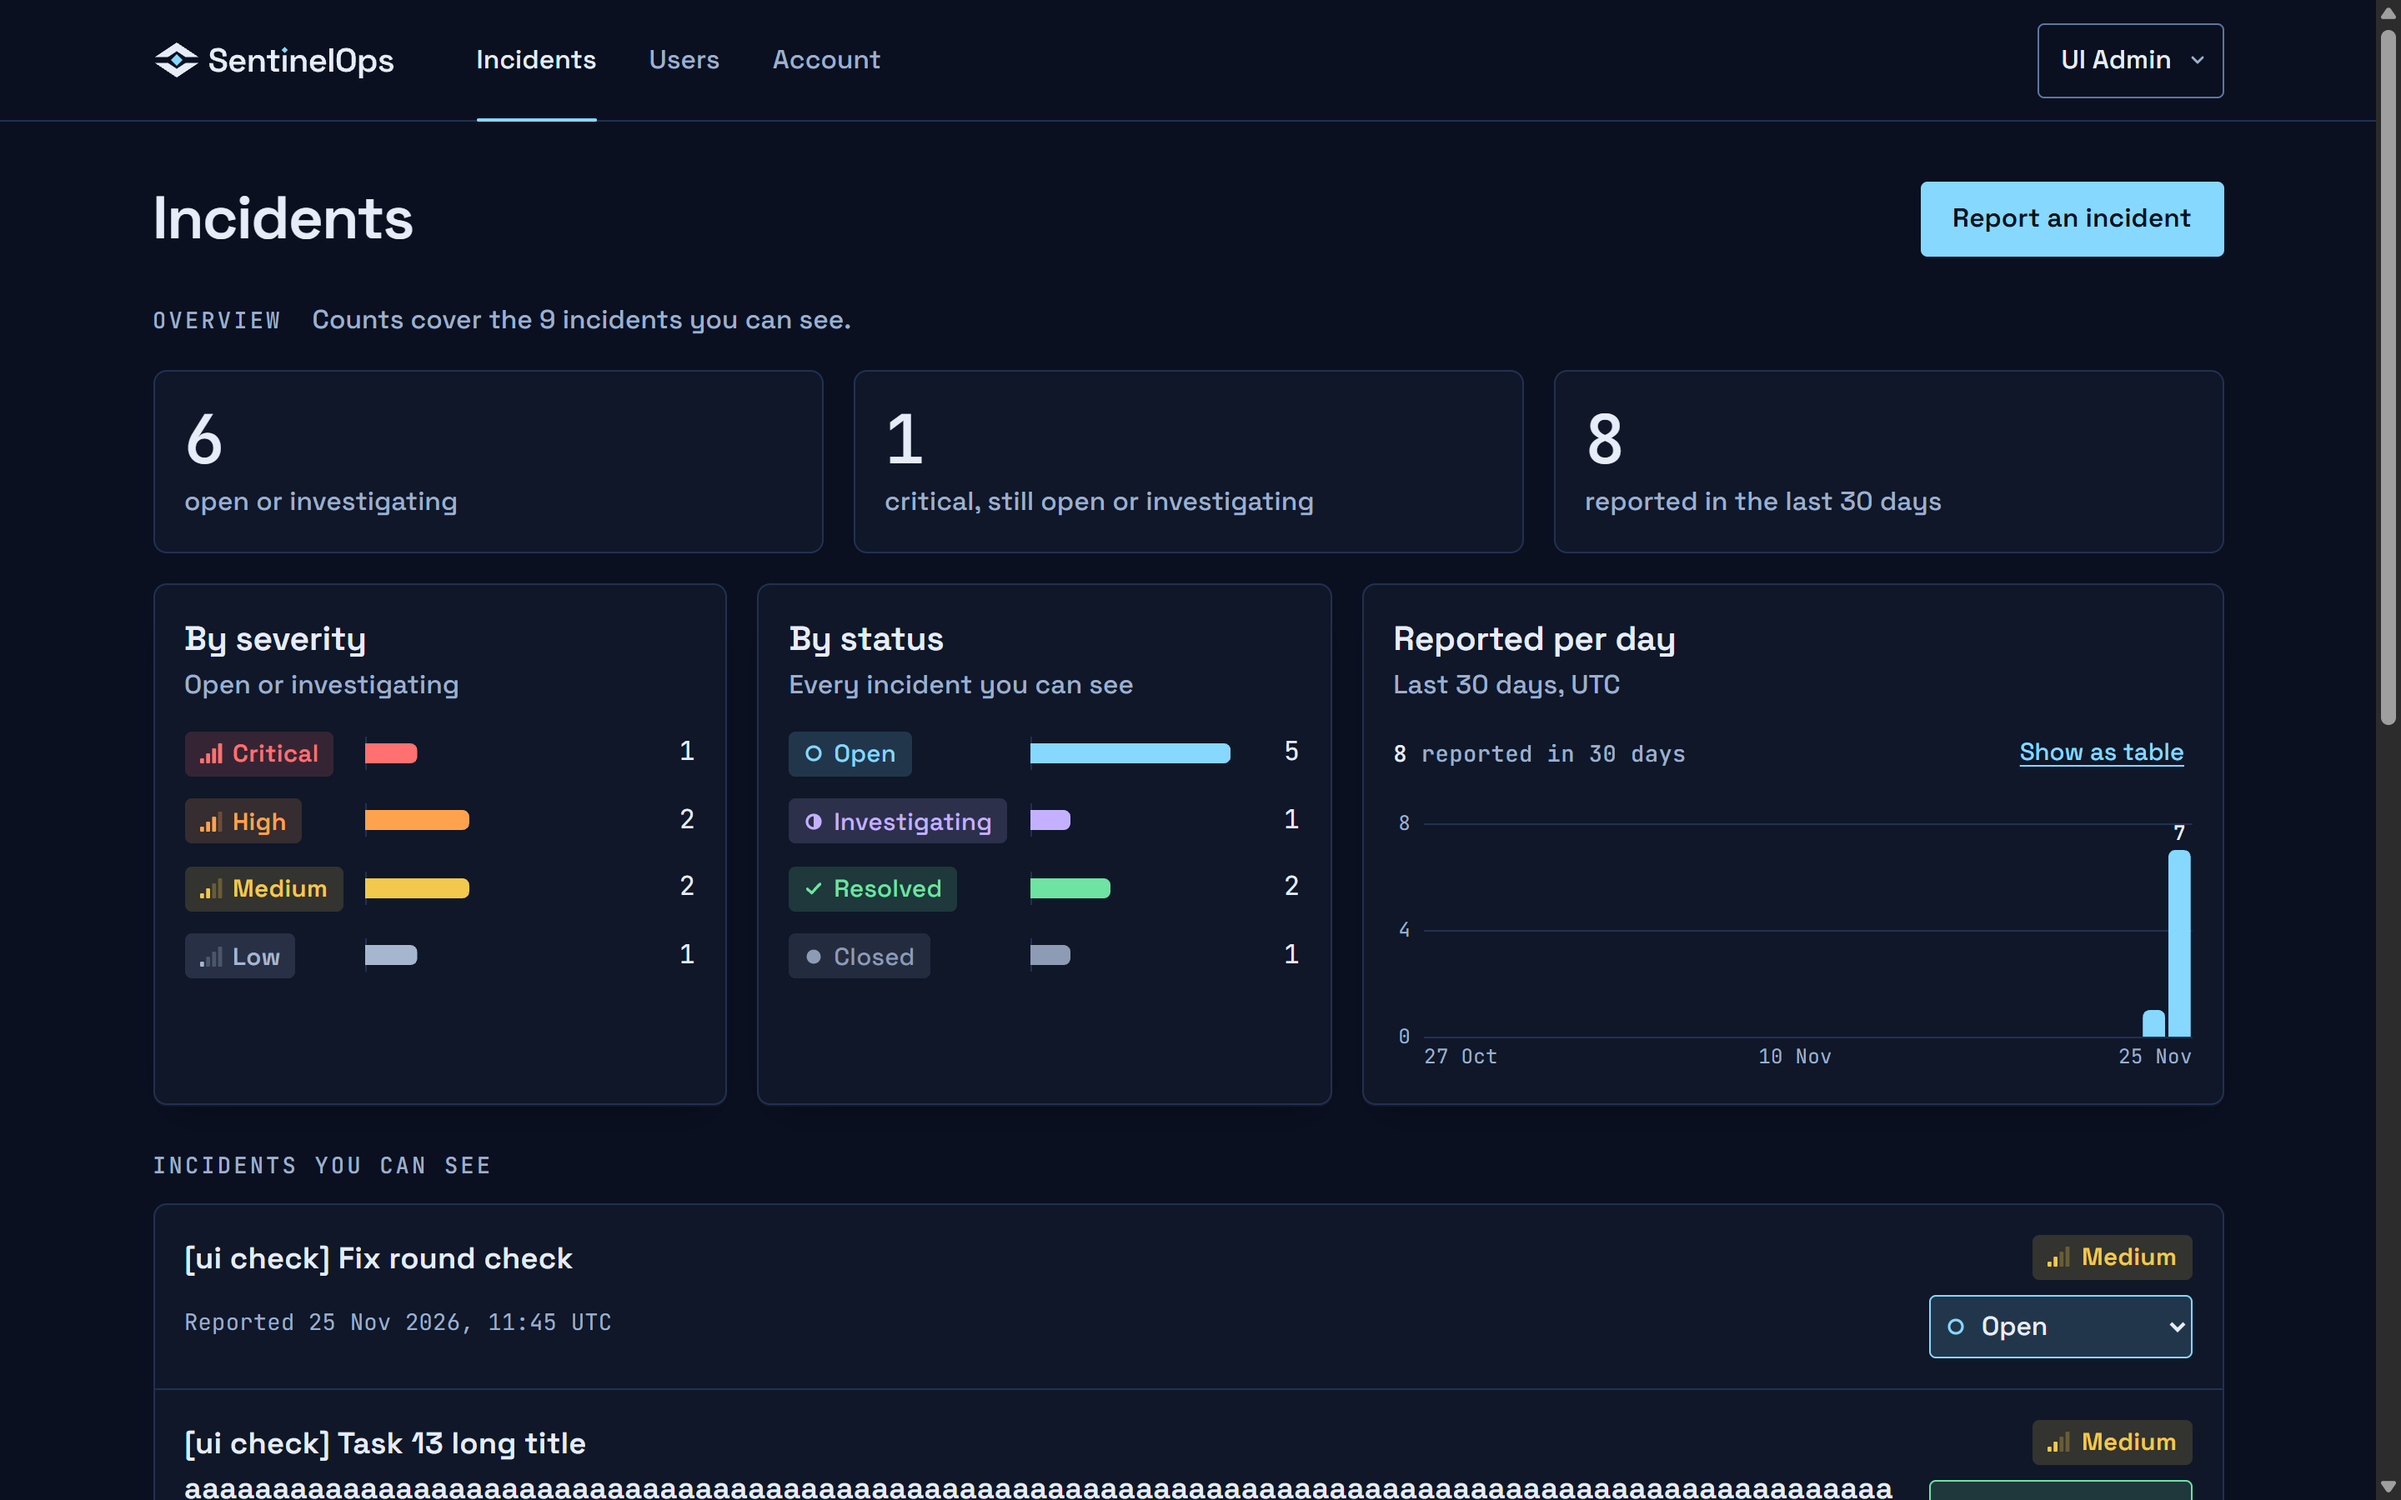
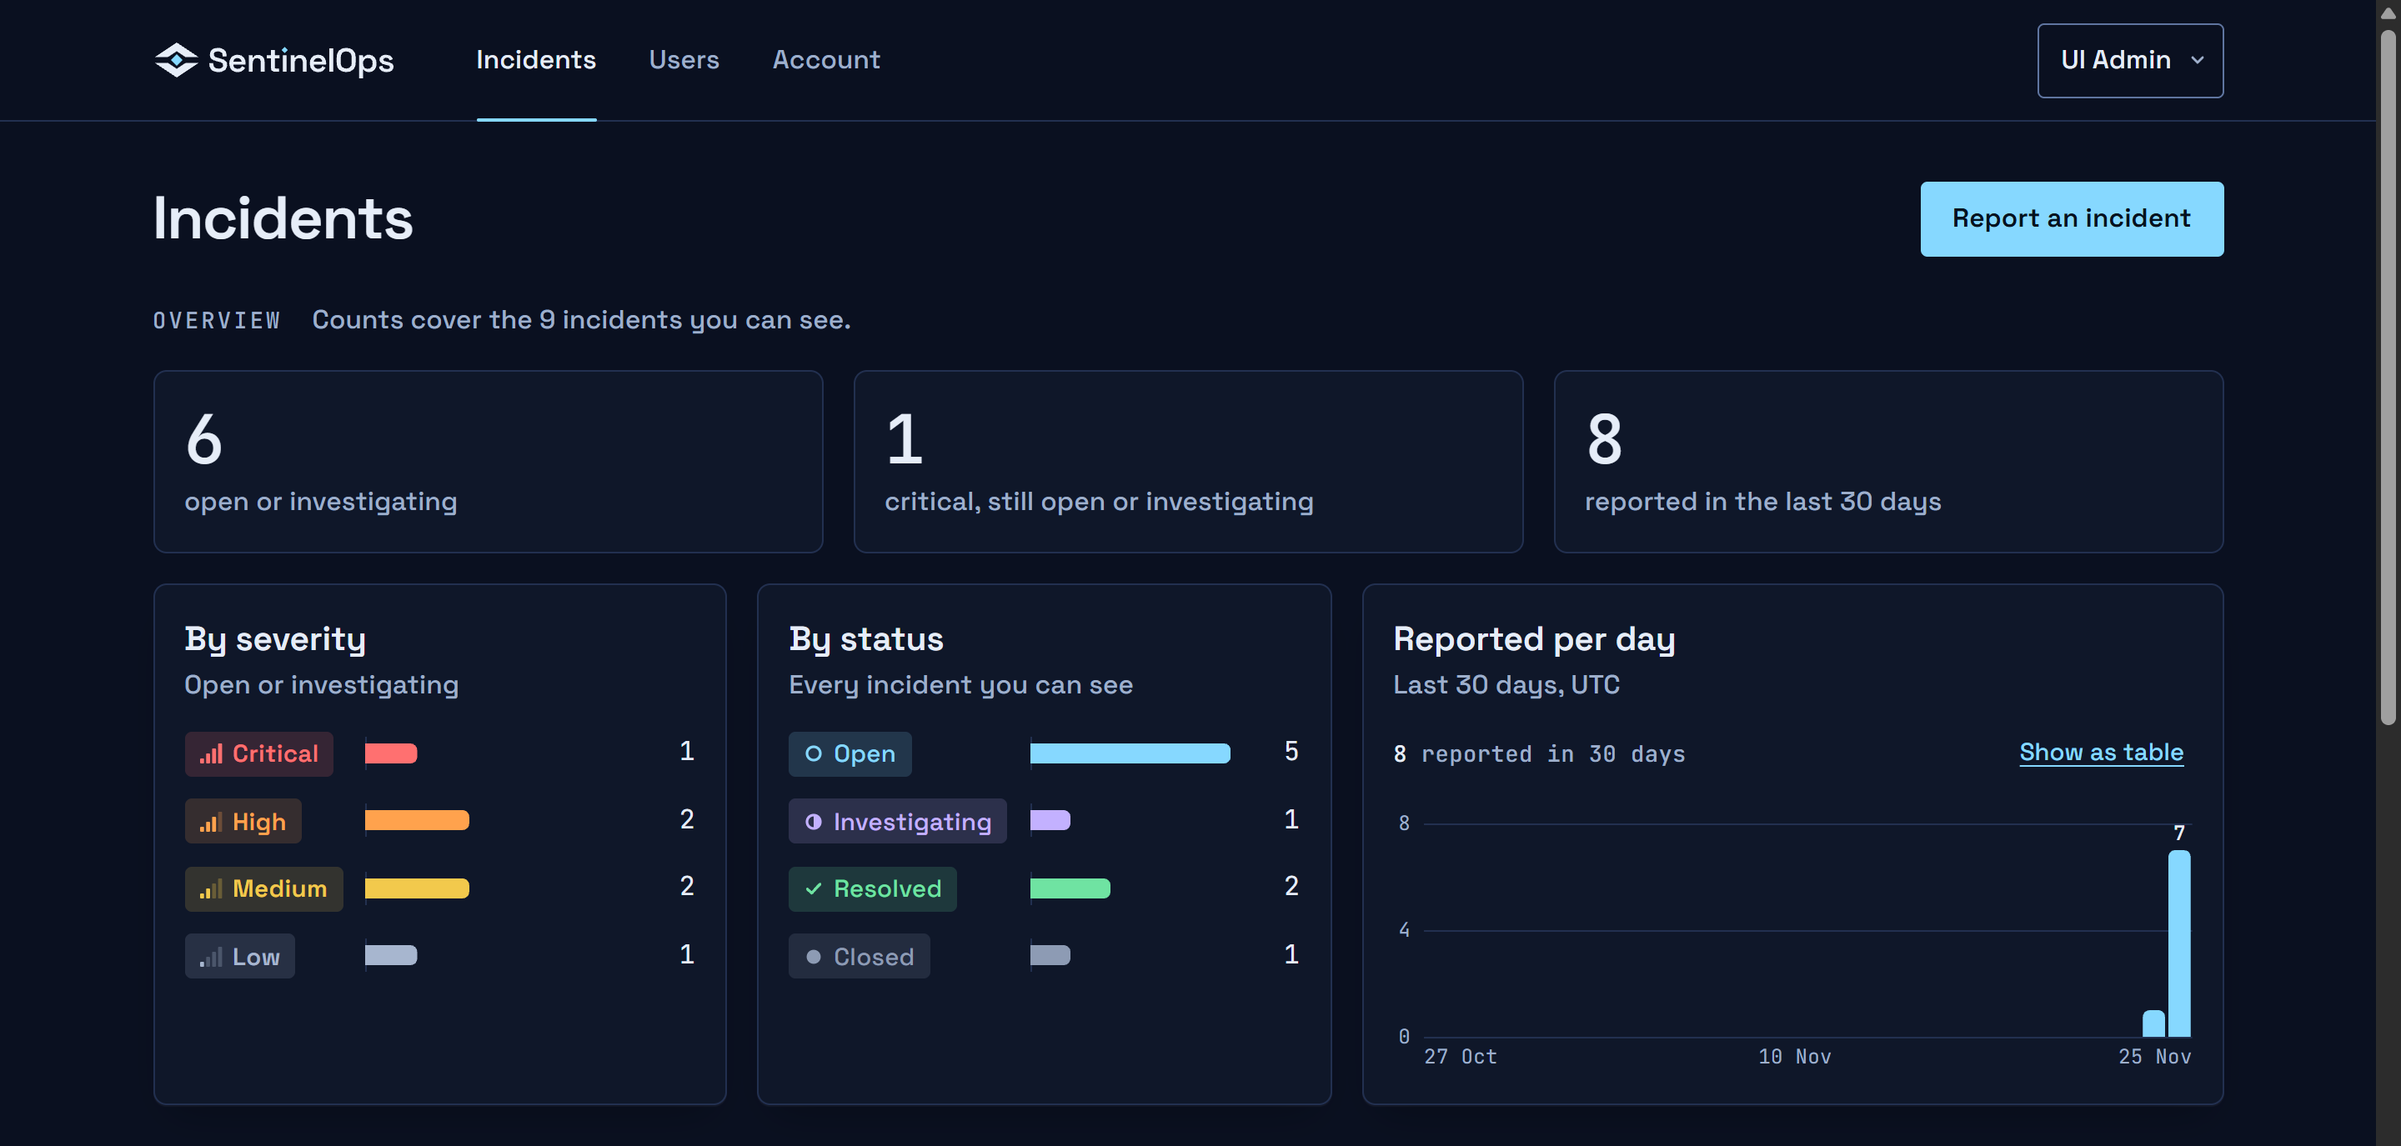
docs: crop the overview screenshots to the charts
- End both incidents screenshots below the charts, leaving out local test rows
- Match the README alt text to the cropped image

diff --git a/README.md b/README.md
@@ -16,7 +16,7 @@
 </p>
 
 <p align="center">
-  <img src="docs/images/dashboard.png" alt="The incidents screen in the dark theme: three headline counts, charts by severity, status and day, and the list below" width="700">
+  <img src="docs/images/dashboard.png" alt="The incidents screen in the dark theme: three headline counts, charts by severity, status and day" width="700">
 </p>
 
 ---
